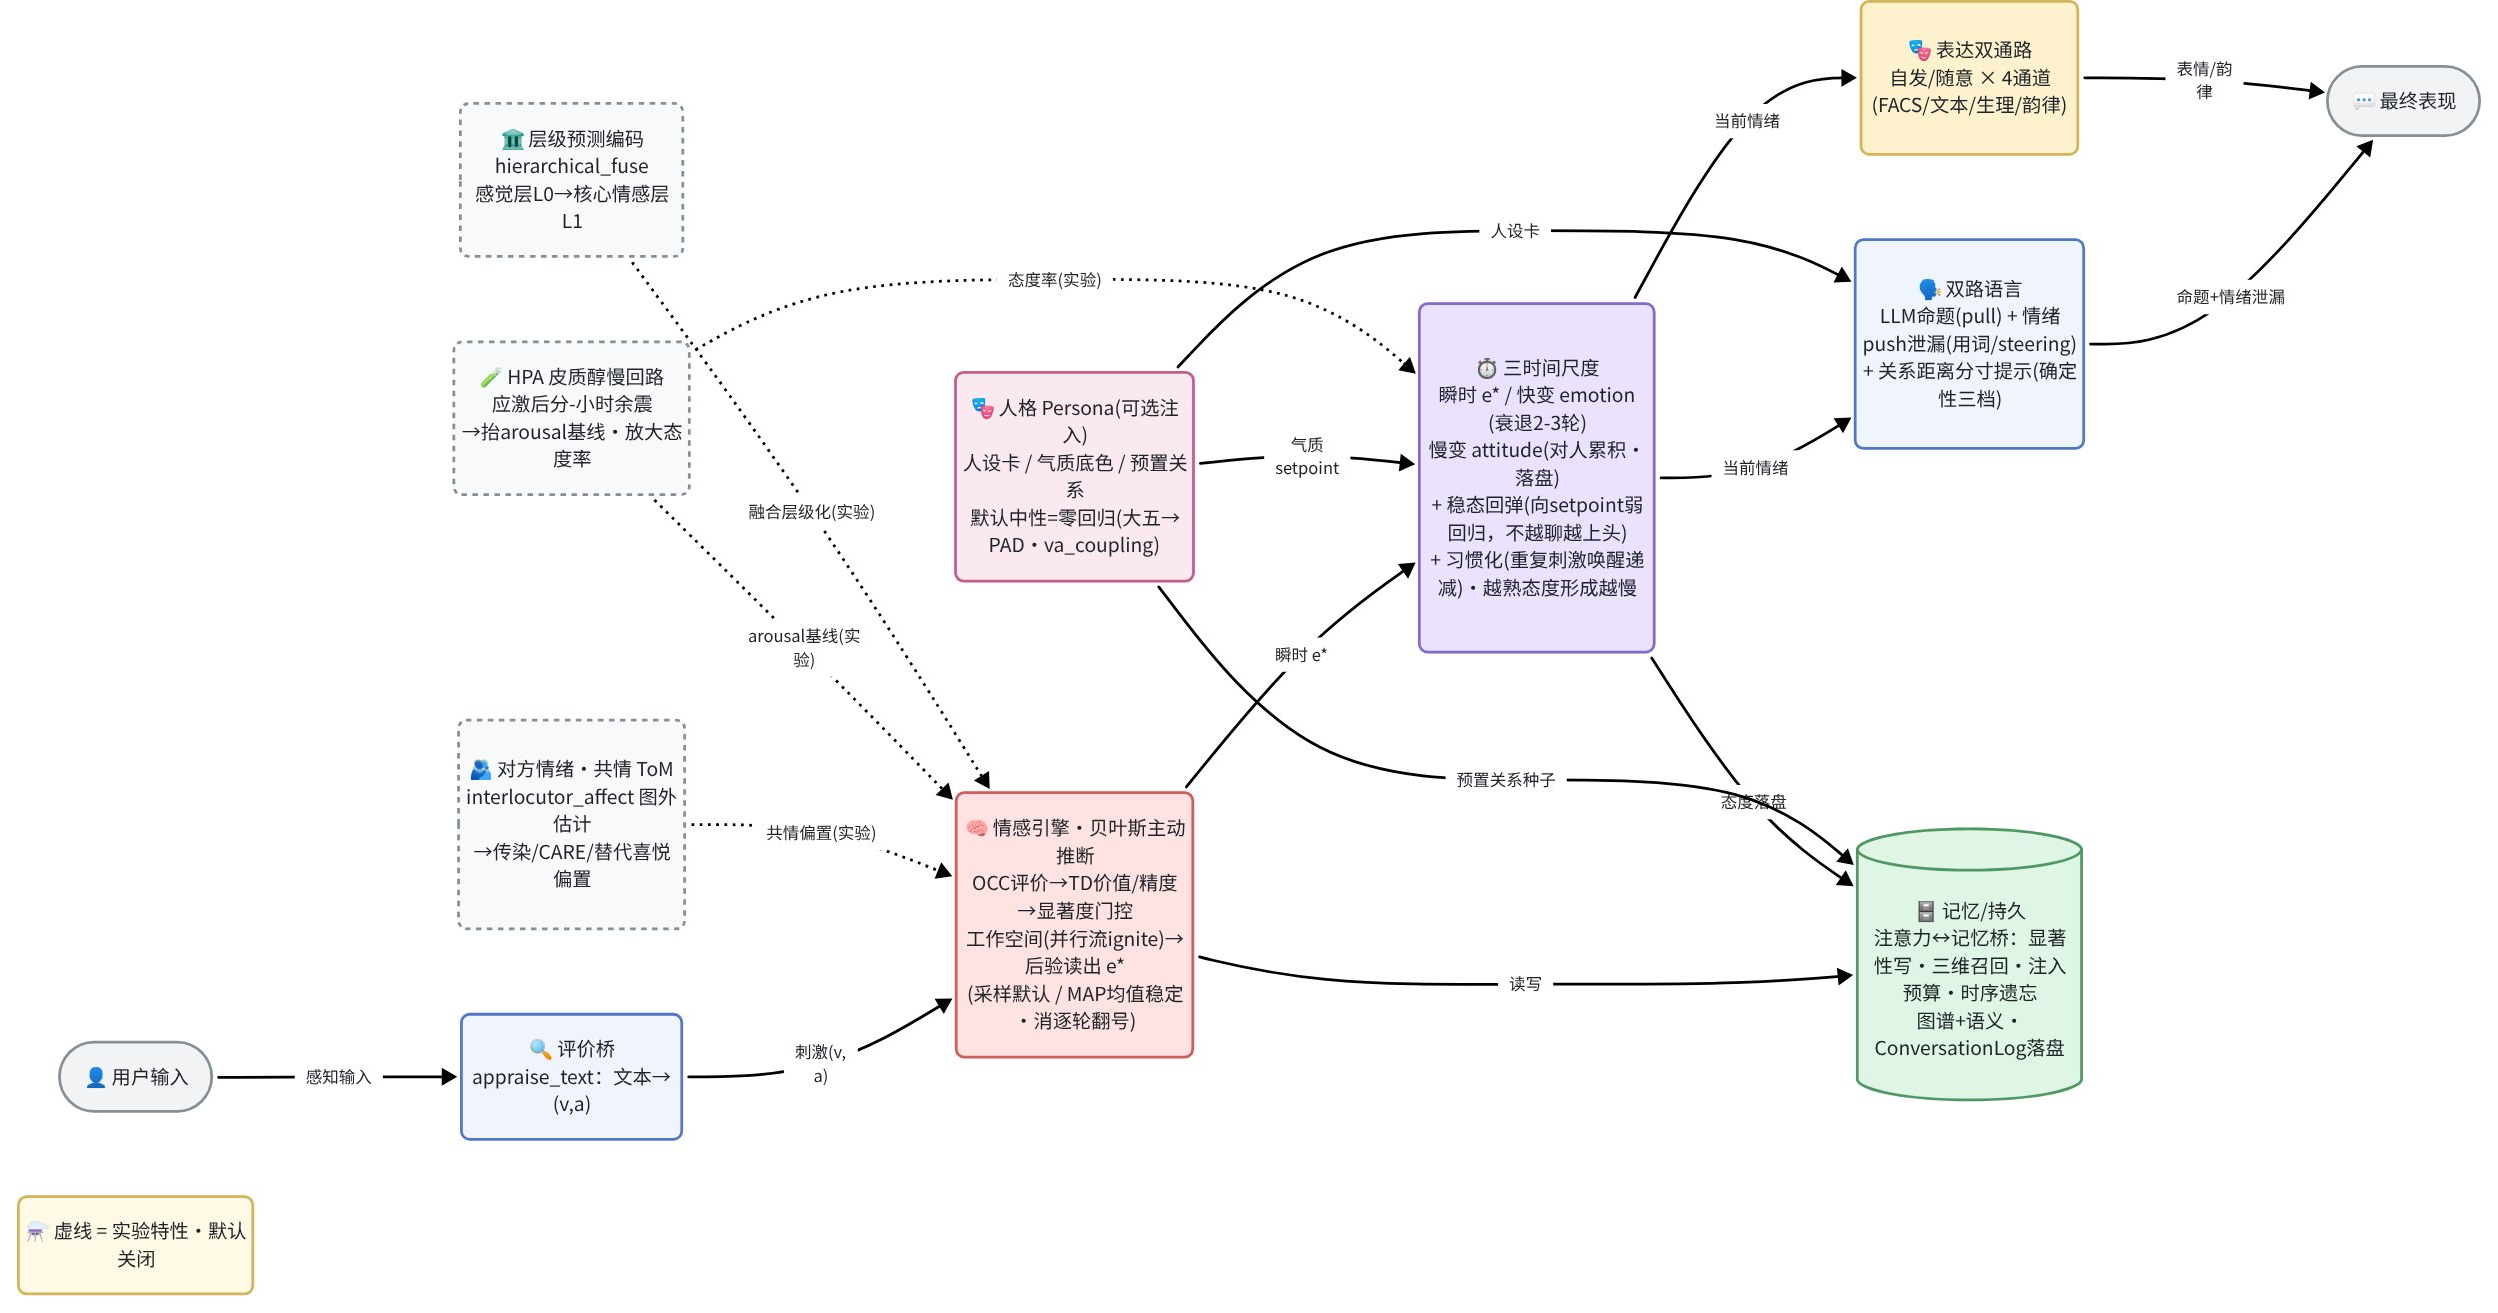
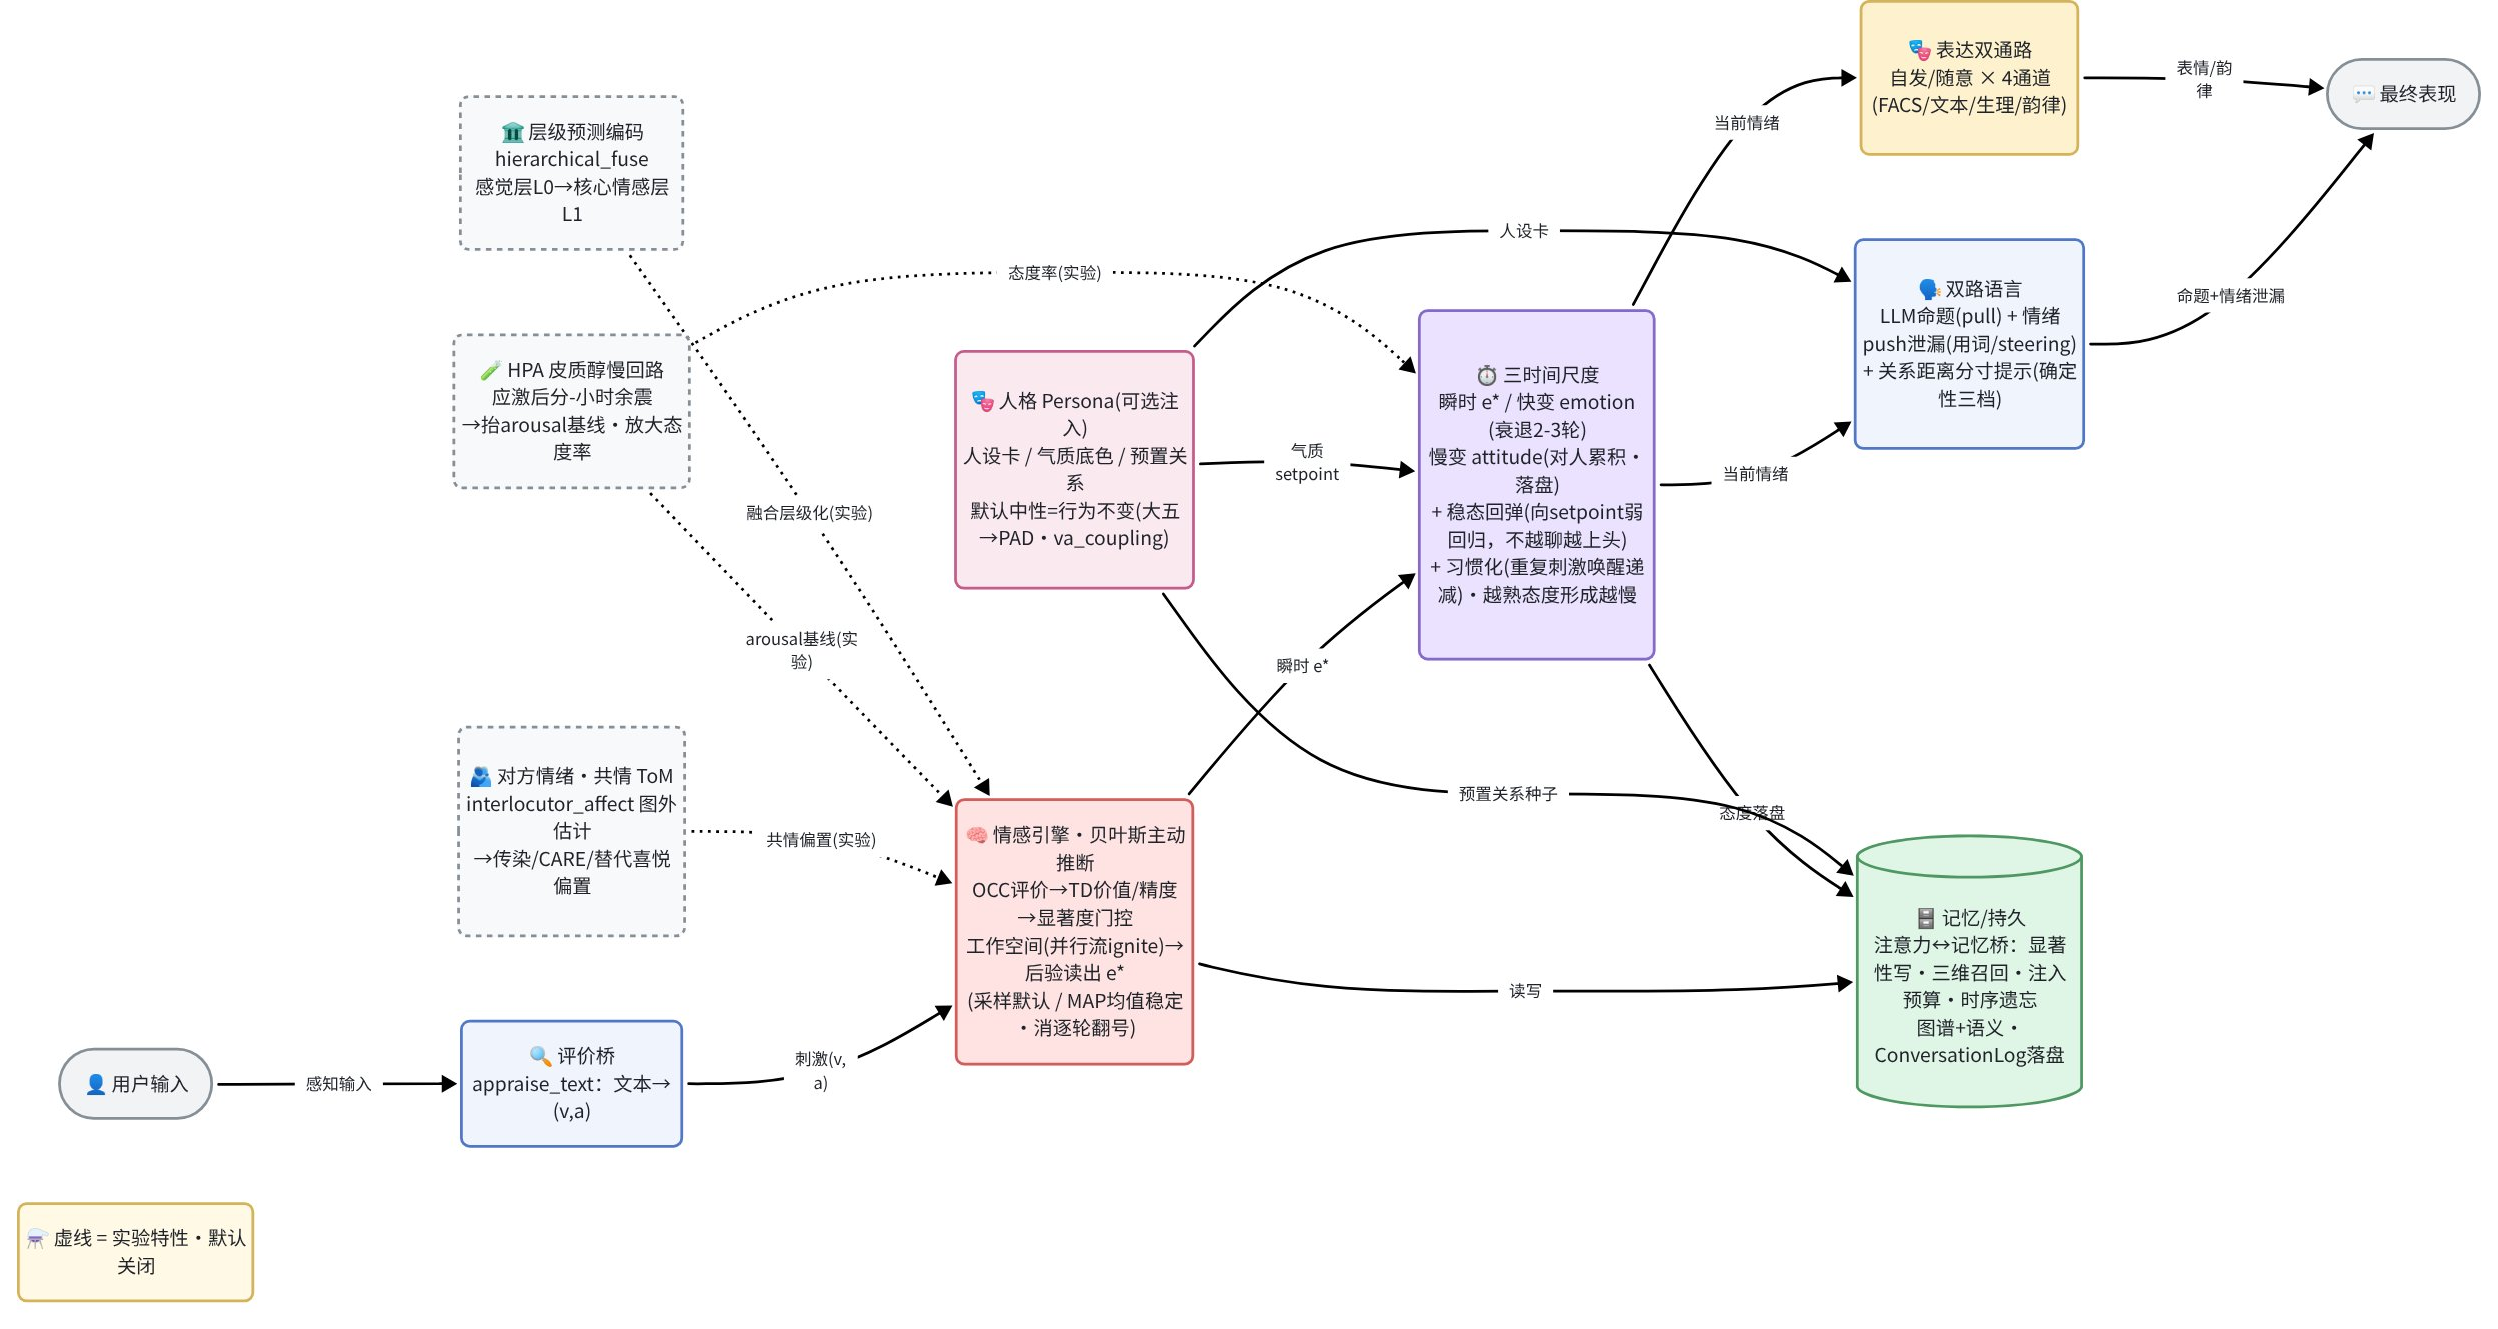
docs: 对外分发物全面去内部工程话语——零回归/PRP/案卷编号/裁决过程改为大众可读表述
- README(23处)/.env.example(12处)/docs README(5处)：「零回归/逐字」→「行为不变/即现有行为」；删 PRP·Follow-up·A-P*/Q5-*/M3 等案卷编号；「设计门/止血」与裁决轮次改为「经科学家议会评审」一般提法
- 图源+重渲染 3 张(framework/runtime/persona)：人格节点「零回归/逐字现状」全部改自然表述
- 脚本 docstring/打印(main/demo_pipeline/demo_text_input/verify×2)：去「受约束方案 c/P3/P4/议会N轮判定」与本地 notes 引用
- 保留：科学术语(seeking/OCC/GNW等)、议会方法论卖点、「确定性/热路径无 LLM」等工程承诺；src/ 代码内决策溯源注释未动
- v2 富样式 .json 备份中的同款旧文案一并补丁

diff --git a/scripts/verify_affect_readout.py b/scripts/verify_affect_readout.py
@@ -1,19 +1,19 @@
-"""本地命令行验证 P4 情绪读出修复（无需 LLM / 无需服务，确定性）。
+"""本地命令行验证 map 情绪读出（ZERO_AFFECT_READOUT=map；无需 LLM / 无需服务，确定性）。
 
-议会三轮判定：`--chat` 连续敌意时「情绪标签逐轮翻号」（敌意却采到正 valence）的根因是
+根因分析：`--chat` 连续敌意时「情绪标签逐轮翻号」（敌意却采到正 valence）的根因是
 **先验量级弱**（软 appraise 给 goal_congruence≈-0.2，post_mu valence≈-0.1、贴 0 边界）
-**+ 逐轮单样本采样的大方差**。两条修复互补：
-  - P3 `ZERO_APPRAISE_CALIBRATE`：把敌意标定拉到 -0.7~-0.9（先验远离 0 边界）。
-  - P4 `ZERO_AFFECT_READOUT=map`：e*=post_mu（MMSE 点估计，去掉采样方差）。
+**+ 逐轮单样本采样的大方差**。两条机制互补：
+  - `ZERO_APPRAISE_CALIBRATE`：把敌意标定拉到 -0.7~-0.9（先验远离 0 边界）。
+  - `ZERO_AFFECT_READOUT=map`：e*=post_mu（MMSE 点估计，去掉采样方差）。
 
 本脚本绕过 LLM、直接给引擎喂 goal_congruence<0 的 stimulus，统计每轮 e* 的 valence 符号，
-对比 sample（默认）vs map（P4）在三档先验强度下的翻号率——量化坐实两条修复各自的作用。
+对比 sample（默认）vs map 在三档先验强度下的翻号率——量化坐实两条机制各自的作用。
 
 跑：python -m scripts.verify_affect_readout
 
 期望（典型）：
-  goal=-0.2（软 appraise 现场）：sample 翻号 ~20% / map 0%   → P4 在弱先验下消翻号
-  goal=-0.7（P3 标定后）       ：sample 0%      / map 0%   → P3 拉强先验也独立消翻号
+  goal=-0.2（软 appraise 现场）：sample 翻号 ~20% / map 0%   → map 读出在弱先验下消翻号
+  goal=-0.7（标定拉强后）      ：sample 0%      / map 0%   → 标定拉强先验也独立消翻号
   各档 sample 与 map 的均值 valence 几乎一致 → map 只杀方差、不偏置信号（MMSE 性质）。
 """
 
@@ -47,7 +47,7 @@ async def _flip_rate(readout: str, goal: float) -> tuple[int, float]:
 
 async def main() -> None:
     print(f"连续 {N} 轮敌意刺激，统计引擎 e* 的 valence>0 翻号轮数（sample 每轮新随机）：\n")
-    print(f"{'goal_congruence':>16} | {'sample 翻号(默认)':>22} | {'map 翻号(P4)':>18}")
+    print(f"{'goal_congruence':>16} | {'sample 翻号(默认)':>22} | {'map 翻号':>18}")
     print("-" * 64)
     for goal in (-0.2, -0.35, -0.7):
         s_pos, s_mean = await _flip_rate("sample", goal)

diff --git a/scripts/verify_appraise_calibration.py b/scripts/verify_appraise_calibration.py
@@ -1,12 +1,12 @@
-"""本地命令行验证 P3 评价标定（**需 LLM key**：读 .env 的 ZERO_OPENAI_*）。
+"""本地命令行验证评价标定 ZERO_APPRAISE_CALIBRATE（**需 LLM key**：读 .env 的 ZERO_OPENAI_*）。
 
-议会二轮判定：`_APPRAISE_SYS` 无标定锚时，LLM 有系统性正向偏置（positivity bias），把明确
-敌意只读成 goal_congruence≈-0.2~-0.3（贴 0 边界，是情绪标签翻号的先验侧根因之一）。P3
+背景：`_APPRAISE_SYS` 无标定锚时，LLM 有系统性正向偏置（positivity bias），把明确
+敌意只读成 goal_congruence≈-0.2~-0.3（贴 0 边界，是情绪标签翻号的先验侧根因之一）。
 `ZERO_APPRAISE_CALIBRATE=1` 注入**分级**标定锚，应把敌意拉到 OCC anger 应有的 -0.7~-0.9，
 而**不误伤**"语气直但中性"的输入。
 
 本脚本对同一组分级样本，各调一次 appraise（标定关 vs 开），并排打印读数——实测标定是否
-把强负样本拉强、又没把中性/轻负样本一并拉过头。这是议会规定 **P1(b) 落地的前置验证**。
+把强负样本拉强、又没把中性/轻负样本一并拉过头。
 
 跑：配好 .env(ZERO_OPENAI_API_KEY + ZERO_OPENAI_MODEL) 后
     `python -m scripts.verify_appraise_calibration`
@@ -59,7 +59,7 @@ async def main() -> None:
     off = await _appraise_all(calibrate=False)
     on = await _appraise_all(calibrate=True)
     print(f"模型={os.environ['ZERO_OPENAI_MODEL']}｜列为 appraise 读出 (valence, arousal)\n")
-    print(f"{'输入类型':<14} | {'标定关(默认)':>16} | {'标定开(P3)':>16} | Δvalence")
+    print(f"{'输入类型':<14} | {'标定关(默认)':>16} | {'标定开':>16} | Δvalence")
     print("-" * 66)
     for label, _ in SAMPLES:
         vo, vn = off[label][0], on[label][0]

diff --git a/main.py b/main.py
@@ -61,8 +61,8 @@ async def _chat_repl() -> None:
     os.environ.setdefault("ZERO_CHECKPOINT_BACKEND", "sqlite")
     os.environ.setdefault("ZERO_MEMORY_BACKEND", "sqlite")
     os.environ.setdefault("ZERO_SEMANTIC_BACKEND", "sqlite_vec")
-    # 议会 C：chat 每轮即一次「任务完成」，长对话会持续写 episode。给语义库一个每-key 容量上限，
-    # 配合 salience 门 + dedup 收口长期增长（确定性 disposition 自带时序失效、不胀，无需另限）。
+    # chat 每轮即一次「任务完成」，长对话会持续写 episode。给语义库一个每-key 容量上限，
+    # 配合 salience 门 + dedup 抑制长期增长（确定性 disposition 自带时序失效、不胀，无需另限）。
     os.environ.setdefault("ZERO_EPISODE_MAX_PER_KEY", "300")
     logging.getLogger("src.memory.client").setLevel(logging.WARNING)
     logging.getLogger("src.storage").setLevel(logging.ERROR)  # 隐藏 sqlite 缺驱动的回退告警

diff --git a/scripts/demo_pipeline.py b/scripts/demo_pipeline.py
@@ -1,6 +1,6 @@
 """端到端 demo：合成训练 ExpressionDecoder → 注入 LangGraph 管线 → 跑刺激序列。
 
-无需外部数据集（用三-1 合成 bootstrap 训练）。展示训练好的真网络如何驱动表达输出。
+无需外部数据集（用合成数据 bootstrap 训练）。展示训练好的真网络如何驱动表达输出。
 用法：python -m scripts.demo_pipeline
 """
 

diff --git a/docs/README.md b/docs/README.md
@@ -1,7 +1,7 @@
 # docs/ — 框架图（v1 旧版存档 / v2 当前）
 
-- **`v2/`** — **现阶段权威架构图**（2026-07-03 全套同步阶段 33 落地：大五→PAD 落地上图 / 记忆遗忘语义纠偏 / 记忆·态度反哺边 / 习惯化·分寸；并新增 3 张架构图 + 1 张动力学曲线）。README 内嵌的就是这套。架构图有 `.mmd`（Mermaid 源，**当前 PNG 由它经飞书画板渲染**）+ `.png`（渲染图）；旧四图另有 `.json`（whiteboard-cli DSL，富样式备选，**内容停在 2026-06-30、待同步**）。
-- **`v1/`** — 上一版存档（2026-06-25，阶段 13–24）：仅 `framework-current` / `runtime-flow` 两张的 `.json` + `.png`（whiteboard-cli DSL 渲染）。保留供对照，不再内嵌、不再维护。
+- **`v2/`** — **现阶段权威架构图**（2026-07-03 与当前实现全套同步：大五→PAD 上图 / 记忆遗忘语义纠偏 / 记忆·态度反哺边 / 习惯化·分寸；并新增 3 张架构图 + 1 张动力学曲线）。README 内嵌的就是这套。架构图有 `.mmd`（Mermaid 源，**当前 PNG 由它经飞书画板渲染**）+ `.png`（渲染图）；旧四图另有 `.json`（whiteboard-cli DSL，富样式备选，**内容停在 2026-06-30、待同步**）。
+- **`v1/`** — 上一版存档（2026-06-25）：仅 `framework-current` / `runtime-flow` 两张的 `.json` + `.png`（whiteboard-cli DSL 渲染）。保留供对照，不再内嵌、不再维护。
 
 ## v2 文件
 
@@ -10,7 +10,7 @@
 | `framework-current` | `.mmd` / `.json` / `.png` | **情绪引擎框架图**（总览）：评价桥 → 引擎 → 三时间尺度(含稳态回弹) → 双路语言 + 表达双通路 → 表现；记忆桥与人格注入旁挂；**+ 三条实验特性虚线旁挂（默认关闭）：🫂 ToM 共情 / 🧪 HPA 皮质醇慢回路 / 🏛 层级预测编码** |
 | `runtime-flow` | `.mmd` / `.json` / `.png` | **项目运作流程图（LLM ⊗ 情感引擎）**：一轮对话怎么走，标注 LLM 接点 / 确定性引擎 / 跨轮持久(emotion 会话内·attitude 落盘) / 人格接点 / 记忆·态度反哺评价先验两条回边 |
 | `memory-architecture` | `.mmd` / `.json` / `.png` | **记忆架构图（注意力↔记忆桥）**：显著性门控写(含写入 dedup) → 情景库(容量遗忘·语义侧信道) → 三维召回重排 → 注入注意力预算；disposition 确定性图谱·时序失效·偏置评价 |
-| `persona-injection` | `.mmd` / `.json` / `.png` | **人格注入图**：Persona 三层（L1 人设卡→语言 / L2 气质底色·大五→PAD·va_coupling→引擎 / L3 预置关系→记忆），默认中性零回归 |
+| `persona-injection` | `.mmd` / `.json` / `.png` | **人格注入图**：Persona 三层（L1 人设卡→语言 / L2 气质底色·大五→PAD·va_coupling→引擎 / L3 预置关系→记忆），默认中性、行为不变 |
 | `chat-persistence-map` | `.mmd` / `.png` | **--chat 数据落点地图**：一轮对话的数据各落哪个存储（对话运行态 / Checkpointer / 确定性图谱 / 语义侧信道 / 日志）、归哪个 env 变量管、chat 默认值 |
 | `layered-architecture` | `.mmd` / `.png` | **三层架构图**：编排 → 记忆 → 存储只能向下依赖，observability 横切 |
 | `workspace-ignition` | `.mmd` / `.png` | **工作空间点燃图**：五条并行流 (μ,π) → 显著网络打分 → 过阈点燃广播 → 精度加权融合 → 后验读出 e* |
@@ -25,10 +25,8 @@
             → 🎭 表达双通路(自发/随意 × 4 通道)            ┴→ 💬 最终表现
 🎭 人格 Persona(可选) → 人设卡进语言 · 气质 setpoint 进时间尺度 · 预置关系进记忆
 情感引擎 ⇄ 🗄 记忆/持久(注意力↔记忆桥：显著性写·三维召回·注入预算·时序遗忘)；三时间尺度 → 态度落盘
-⚗ 实验流(虚线·默认关·零回归·各走 PRP)：🫂 ToM 对方情绪→共情偏置进引擎 · 🧪 HPA 皮质醇→抬 arousal 基线/放大态度率 · 🏛 层级预测编码→引擎融合层级化
+⚗ 实验特性(虚线·默认关闭·不开启则行为不变)：🫂 ToM 对方情绪→共情偏置进引擎 · 🧪 HPA 皮质醇→抬 arousal 基线/放大态度率 · 🏛 层级预测编码→引擎融合层级化
 ```
-
-详解见 `PROGRESS.md` 阶段 13–27 与对应 `notes/2026-06-2*-*`（工作空间 · 记忆桥 · 情绪稳态 · 人格接口；两者均本地维护、不随仓库分发）。
 
 ## 重新渲染（v2）
 
